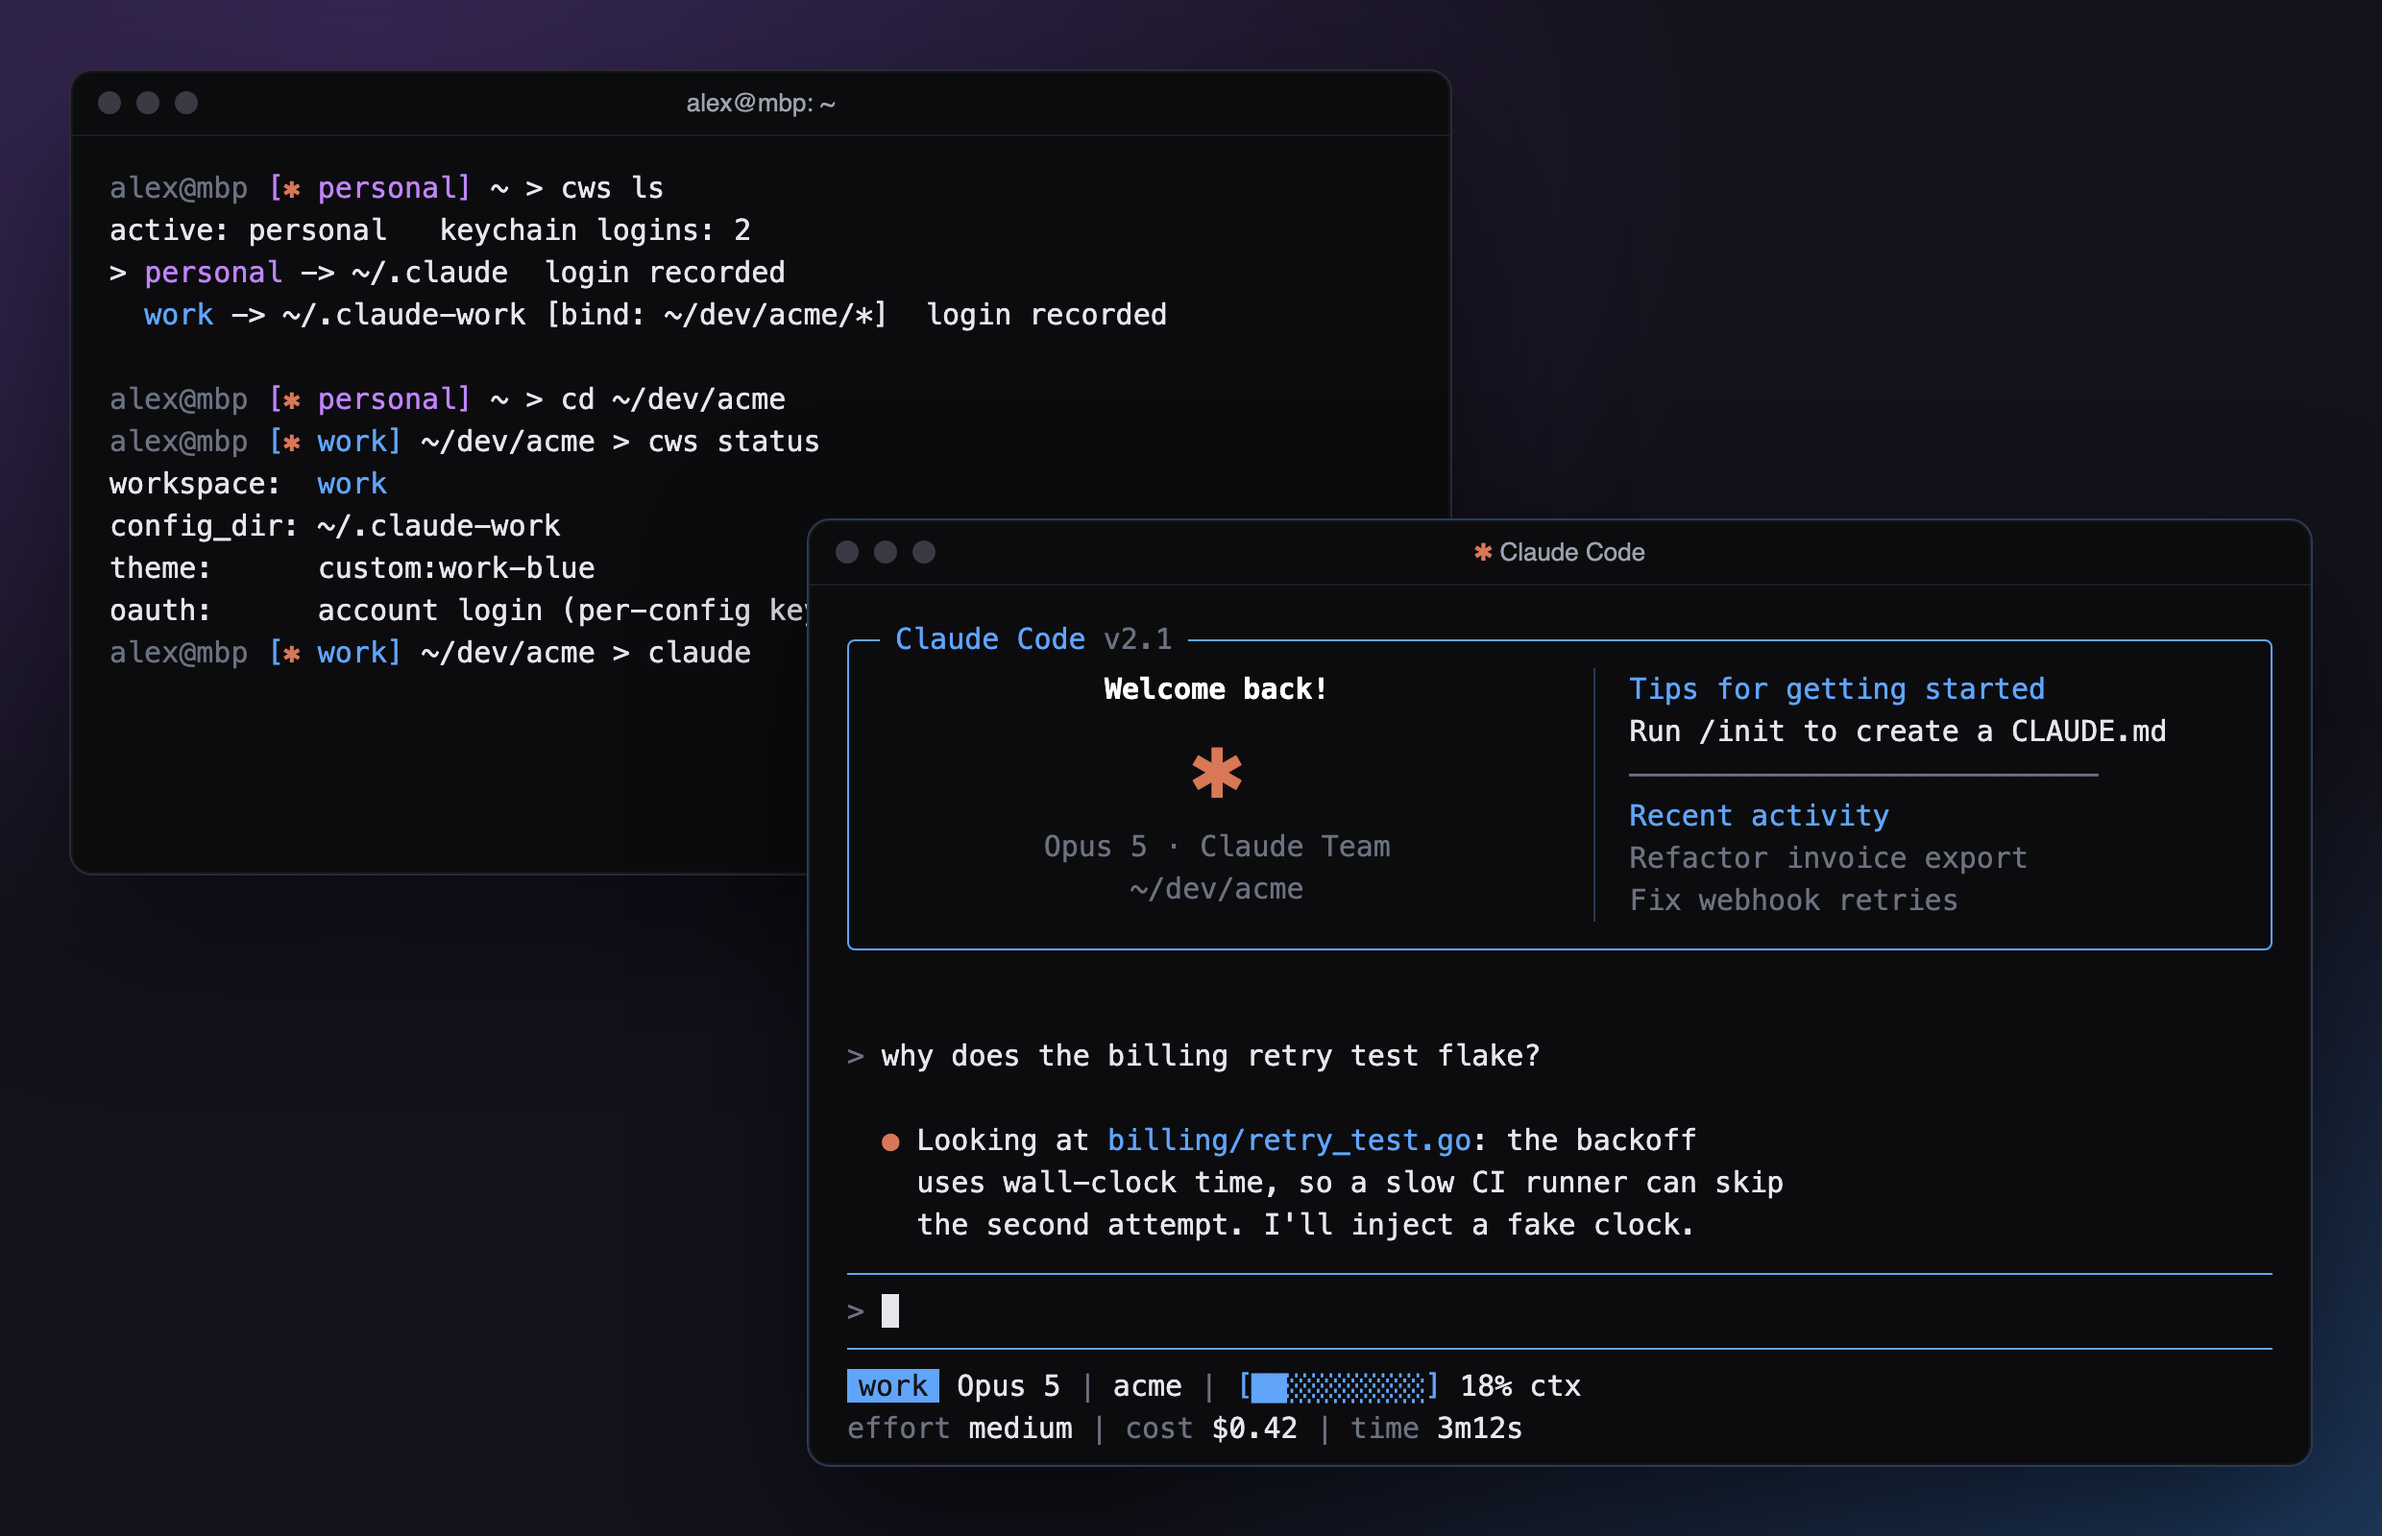
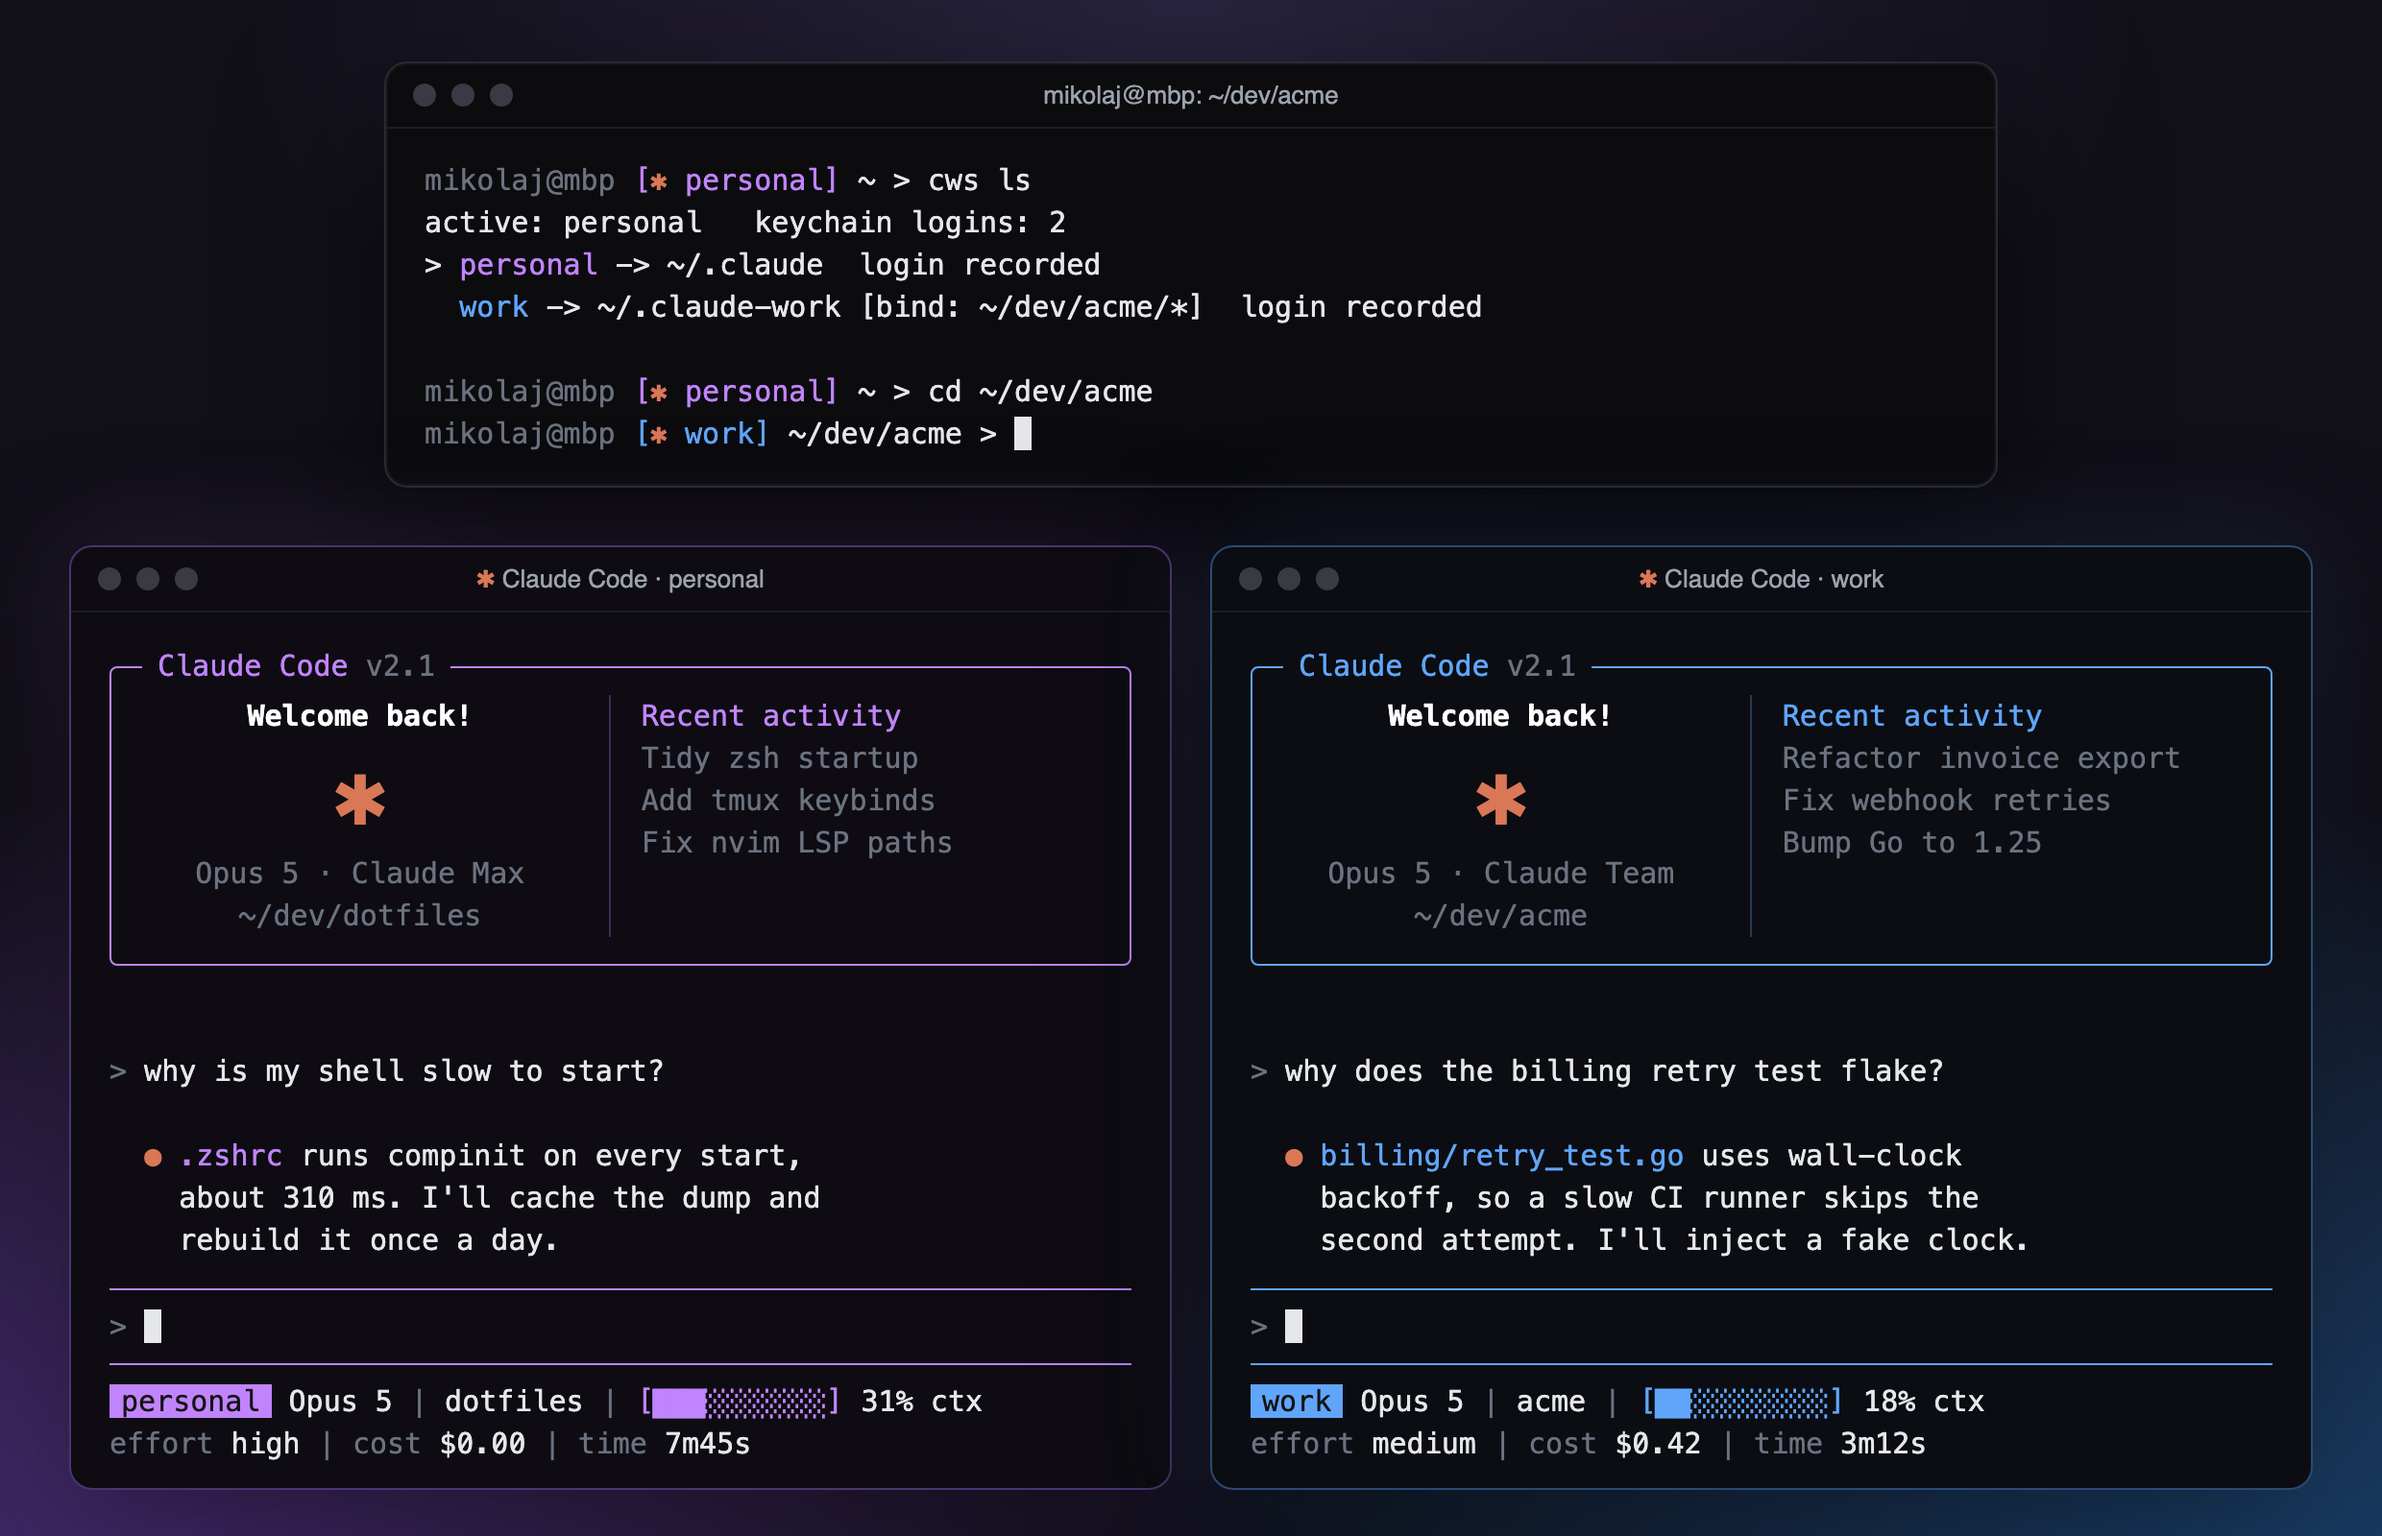
README: hero shows two workspaces side by side

diff --git a/docs/hero.html b/docs/hero.html
@@ -1,13 +1,14 @@
 <!doctype html>
-<!-- Source of docs/hero.png. Synthetic demo data only (user "alex", ~/dev/acme).
+<!-- Source of docs/hero.png. Synthetic demo data only (user "mikolaj", ~/dev/acme, made-up sessions).
      Regenerate: docs/render-hero.sh -->
 <html><head><meta charset="utf-8"><style>
   :root { --violet:#c084fc; --blue:#60a5fa; --clay:#d97757; --dim:#6b7280; --fg:#e5e7eb; }
   * { box-sizing:border-box; margin:0; padding:0; }
   html,body { width:1240px; height:800px; overflow:hidden; }
-  body { background: radial-gradient(1200px 700px at 15% 10%, #3b2a5c 0%, transparent 60%),
-                      radial-gradient(1000px 700px at 95% 100%, #1e3a5f 0%, transparent 60%),
-                      #14121c;
+  body { background: radial-gradient(900px 620px at 8% 100%, #4a2f78 0%, transparent 62%),
+                      radial-gradient(900px 620px at 92% 100%, #1d4573 0%, transparent 62%),
+                      radial-gradient(700px 400px at 50% 0%, #2a2440 0%, transparent 70%),
+                      #121019;
          font-family: "JetBrains Mono", "SF Mono", Menlo, monospace; font-size:15px; line-height:22px; color:var(--fg); }
   .win { position:absolute; background:#0c0c0f; border-radius:12px; border:1px solid #2a2a33;
          box-shadow: 0 30px 80px rgba(0,0,0,.55), 0 0 0 1px rgba(255,255,255,.04) inset; overflow:hidden; }
@@ -17,55 +18,76 @@
   .title { flex:1; text-align:center; margin-right:60px; }
   .body { padding:16px 20px; white-space:pre; }
   .v { color:var(--violet); } .b { color:var(--blue); } .c { color:var(--clay); } .d { color:var(--dim); }
-  .g { color:#4ade80; } .w { color:#fff; font-weight:600; }
-  .badge { padding:0 6px; color:#141414; }
-  .bv { background:var(--violet); } .bb { background:var(--blue); }
-  .box { border:1px solid var(--blue); border-radius:4px; padding:14px 18px; display:flex; gap:22px; position:relative; margin-top:6px; white-space:normal; }
-  .box .legend { position:absolute; top:-12px; left:16px; background:#0c0c0f; padding:0 8px; }
-  .box .l { flex:1.1; text-align:center; white-space:pre; }
-  .box .r { flex:1; border-left:1px solid #2a3a55; padding-left:18px; white-space:pre; overflow:hidden; }
+  .w { color:#fff; font-weight:600; }
+
+  /* A Claude Code window takes its accent from the workspace it runs in. */
+  .personal { --acc:var(--violet); --line:#3d2c57; --bg:#0e0c12; background:var(--bg); border-color:#4b3570;
+              box-shadow: 0 30px 80px rgba(0,0,0,.55), 0 0 60px rgba(192,132,252,.13); }
+  .work     { --acc:var(--blue);   --line:#243a57; --bg:#0b0d12; background:var(--bg); border-color:#2c4a73;
+              box-shadow: 0 30px 80px rgba(0,0,0,.55), 0 0 60px rgba(96,165,250,.13); }
+  .a { color:var(--acc); }
+  .badge { padding:0 6px; color:#141414; background:var(--acc); }
+  .box { border:1px solid var(--acc); border-radius:4px; padding:14px 16px; display:flex; gap:16px; position:relative; margin-top:6px; white-space:normal; }
+  .box .legend { position:absolute; top:-12px; left:16px; background:var(--bg); padding:0 8px; }
+  .box .l { flex:1; text-align:center; white-space:pre; }
+  .box .r { flex:1.05; border-left:1px solid var(--line); padding-left:16px; white-space:pre; overflow:hidden; }
   .mark { font-size:46px; line-height:60px; color:var(--clay); }
-  .rule { border-top:1px solid var(--blue); margin:14px 0 8px; }
+  .rule { border-top:1px solid var(--acc); margin:14px 0 8px; }
   .cursor { background:#e5e7eb; color:#0c0c0f; }
 </style></head><body>
 
-<div class="win" style="left:36px; top:36px; width:720px; height:420px;">
-  <div class="bar"><span class="dot"></span><span class="dot"></span><span class="dot"></span><span class="title">alex@mbp: ~</span></div>
-  <div class="body"><span class="d">alex@mbp</span> <span class="v">[<span class="c">✱</span> personal]</span> ~ &gt; cws ls
+<div class="win" style="left:200px; top:32px; width:840px; height:222px;">
+  <div class="bar"><span class="dot"></span><span class="dot"></span><span class="dot"></span><span class="title">mikolaj@mbp: ~/dev/acme</span></div>
+  <div class="body"><span class="d">mikolaj@mbp</span> <span class="v">[<span class="c">✱</span> personal]</span> ~ &gt; cws ls
 active: personal   keychain logins: 2
 &gt; <span class="v">personal</span> -&gt; ~/.claude  login recorded
   <span class="b">work</span> -&gt; ~/.claude-work [bind: ~/dev/acme/*]  login recorded
 
-<span class="d">alex@mbp</span> <span class="v">[<span class="c">✱</span> personal]</span> ~ &gt; cd ~/dev/acme
-<span class="d">alex@mbp</span> <span class="b">[<span class="c">✱</span> work]</span> ~/dev/acme &gt; cws status
-workspace:  <span class="b">work</span>
-config_dir: ~/.claude-work
-theme:      custom:work-blue
-oauth:      account login (per-config keychain)
-<span class="d">alex@mbp</span> <span class="b">[<span class="c">✱</span> work]</span> ~/dev/acme &gt; claude</div>
+<span class="d">mikolaj@mbp</span> <span class="v">[<span class="c">✱</span> personal]</span> ~ &gt; cd ~/dev/acme
+<span class="d">mikolaj@mbp</span> <span class="b">[<span class="c">✱</span> work]</span> ~/dev/acme &gt; <span class="cursor"> </span></div>
 </div>
 
-<div class="win" style="left:420px; top:270px; width:784px; height:494px; border-color:#2b3b55;">
-  <div class="bar"><span class="dot"></span><span class="dot"></span><span class="dot"></span><span class="title"><span class="c">✱</span> Claude Code</span></div>
+<div class="win personal" style="left:36px; top:284px; width:574px; height:492px;">
+  <div class="bar"><span class="dot"></span><span class="dot"></span><span class="dot"></span><span class="title"><span class="c">✱</span> Claude Code · personal</span></div>
   <div class="body" style="padding-top:22px;"><div class="box">
-    <span class="legend"><span class="b">Claude Code</span> <span class="d">v2.1</span></span>
+    <span class="legend"><span class="a">Claude Code</span> <span class="d">v2.1</span></span>
+    <div class="l"><span class="w">Welcome back!</span>
+<span class="mark">✱</span>
+<span class="d">Opus 5 · Claude Max</span>
+<span class="d">~/dev/dotfiles</span></div>
+    <div class="r"><span class="a">Recent activity</span>
+<span class="d">Tidy zsh startup</span>
+<span class="d">Add tmux keybinds</span>
+<span class="d">Fix nvim LSP paths</span></div>
+  </div>
+
+<span class="d">&gt;</span> why is my shell slow to start?
+
+  <span class="c">●</span> <span class="a">.zshrc</span> runs compinit on every start,
+    about 310 ms. I'll cache the dump and
+    rebuild it once a day.<div class="rule"></div><span class="d">&gt;</span> <span class="cursor"> </span><div class="rule" style="margin-top:8px"></div><span class="badge">personal</span> Opus 5 <span class="d">|</span> dotfiles <span class="d">|</span> <span class="a">[███░░░░░░░]</span> 31% ctx
+<span class="d">effort</span> high <span class="d">|</span> <span class="d">cost</span> $0.00 <span class="d">|</span> <span class="d">time</span> 7m45s</div>
+</div>
+
+<div class="win work" style="left:630px; top:284px; width:574px; height:492px;">
+  <div class="bar"><span class="dot"></span><span class="dot"></span><span class="dot"></span><span class="title"><span class="c">✱</span> Claude Code · work</span></div>
+  <div class="body" style="padding-top:22px;"><div class="box">
+    <span class="legend"><span class="a">Claude Code</span> <span class="d">v2.1</span></span>
     <div class="l"><span class="w">Welcome back!</span>
 <span class="mark">✱</span>
 <span class="d">Opus 5 · Claude Team</span>
 <span class="d">~/dev/acme</span></div>
-    <div class="r"><span class="b">Tips for getting started</span>
-Run /init to create a CLAUDE.md
-<span class="d">───────────────────────────</span>
-<span class="b">Recent activity</span>
+    <div class="r"><span class="a">Recent activity</span>
 <span class="d">Refactor invoice export</span>
-<span class="d">Fix webhook retries</span></div>
+<span class="d">Fix webhook retries</span>
+<span class="d">Bump Go to 1.25</span></div>
   </div>
 
 <span class="d">&gt;</span> why does the billing retry test flake?
 
-  <span class="c">●</span> Looking at <span class="b">billing/retry_test.go</span>: the backoff
-    uses wall-clock time, so a slow CI runner can skip
-    the second attempt. I'll inject a fake clock.<div class="rule"></div><span class="d">&gt;</span> <span class="cursor"> </span><div class="rule" style="margin-top:8px"></div><span class="badge bb">work</span> Opus 5 <span class="d">|</span> acme <span class="d">|</span> <span class="b">[██░░░░░░░░]</span> 18% ctx
+  <span class="c">●</span> <span class="a">billing/retry_test.go</span> uses wall-clock
+    backoff, so a slow CI runner skips the
+    second attempt. I'll inject a fake clock.<div class="rule"></div><span class="d">&gt;</span> <span class="cursor"> </span><div class="rule" style="margin-top:8px"></div><span class="badge">work</span> Opus 5 <span class="d">|</span> acme <span class="d">|</span> <span class="a">[██░░░░░░░░]</span> 18% ctx
 <span class="d">effort</span> medium <span class="d">|</span> <span class="d">cost</span> $0.42 <span class="d">|</span> <span class="d">time</span> 3m12s</div>
 </div>
 

diff --git a/README.md b/README.md
@@ -16,7 +16,7 @@
   <a href="#commands"><b>Commands</b></a>
 </p>
 
-<p align="center"><img width="900" alt="cd into a bound directory switches the shell to the work workspace; Claude Code there shows the workspace color in its theme and status line" src="docs/hero.png"></p>
+<p align="center"><img width="900" alt="A shell switching from the personal to the work workspace on cd, and two Claude Code windows side by side: personal in violet, work in blue, each with its own theme and status line" src="docs/hero.png"></p>
 
 ## Why
 
